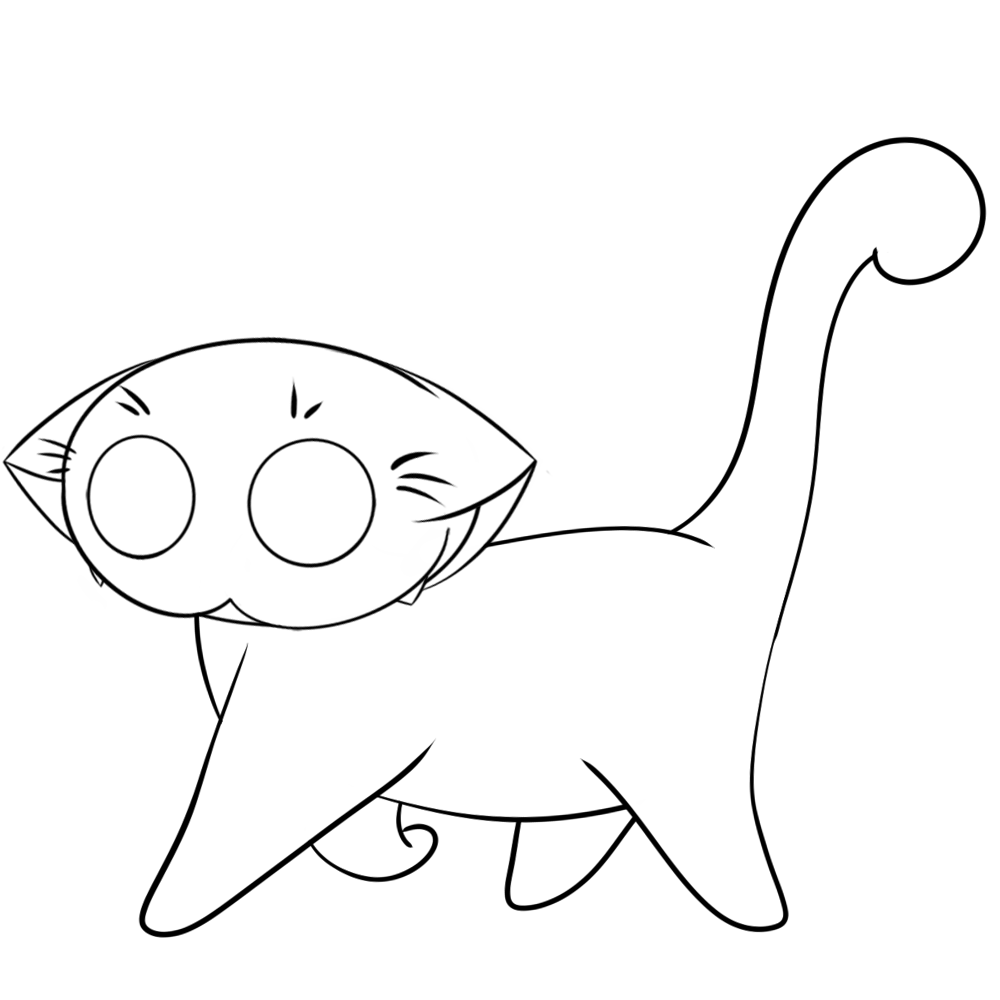
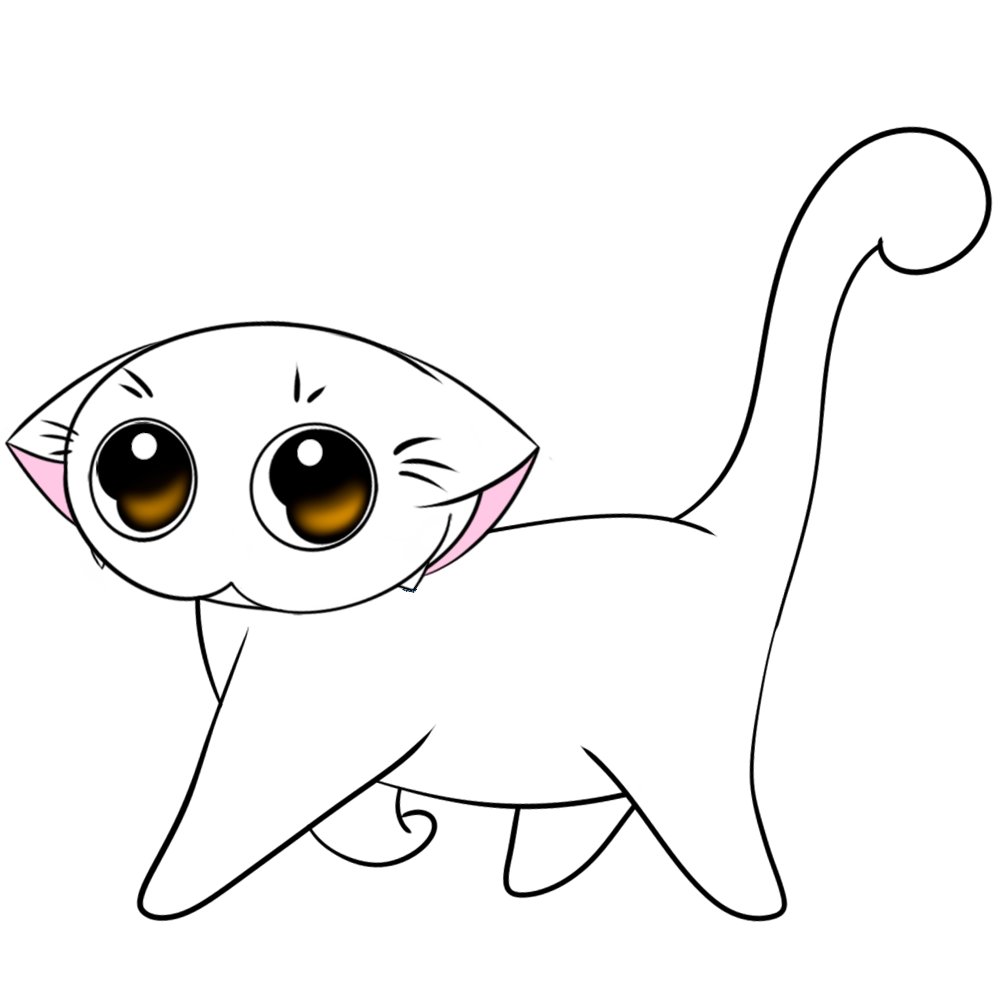
assets added and stuff works

diff --git a/src/components/molecules/Builder.js b/src/components/molecules/Builder.js
@@ -1,12 +1,14 @@
 import React, { Component, useState } from 'react';
 import { LoadingIndicator } from '../atoms/LoadingIndicator';
-import { Pane, Text, Button, Heading, SelectMenu, Label, Checkbox } from 'evergreen-ui'
-import blueFilling from '../../assets/images/fill.png'
-import orangeFilling from '../../assets/images/fill_2.png'
+import { Pane, Text, Button, Heading, SelectMenu, Label, Checkbox, Positioner } from 'evergreen-ui'
+import { CirclePicker } from 'react-color'
 import outline from '../../assets/images/siluette.png'
+import background from '../../assets/images/background.png'
 import { screenCapture } from '../helpers/ScreenCapture';
+import { spotImages } from '../../assets/images/spots'
 import { DropdownSelection } from '../atoms/DropdownSelection';
 import { cloneDeep } from "lodash"
+import { FillingColor } from '../atoms/FillingColor';
 
 
 const siluetteStyle = {
@@ -23,70 +25,87 @@ const imageStyle = {
 }
 const imageStyleSmall = {
   width: '80%',
+  height: '100%',
   position: 'absolute'
 }
 
 class Builder extends Component {
+
   constructor(props) {
     super(props);
     this.state = {
+      showColorPicker: false,
       size: undefined,
-      filling: undefined,
-      mainColor: undefined,
-      firstSpotColor: undefined,
-      secondSpotColor: undefined,
+      mainColor: '#4f668a',
+      firstSpotColor: 'sand',
+      secondSpotColor: 'darkBlue',
       firstSpots: undefined,
       secondSpots: undefined
     }
   }
 
   componentDidMount() {
-    const filling = blueFilling
     let spots = [
       {
         selected: false,
-        location: 'Rechtes Ohr',
-        src: 'rechtesOhr.svg',
-      },
-      {
-        selected: false,
-        location: 'Linkes Ohr',
-        src: 'linkesOhr.svg',
+        location: 'Rücken',
+        src: spotImages.back
       },
       {
         selected: false,
         location: 'Bauch',
-        src: 'bauch.svg',
+        src: spotImages.belly
+      },
+      {
+        selected: false,
+        location: 'Linkes Ohr',
+        src: spotImages.leftEar
+      },
+      {
+        selected: false,
+        location: 'Linke Vorderpfote',
+        src: spotImages.leftFrontFoot
+      },
+      {
+        selected: false,
+        location: 'Rechtes Ohr',
+        src: spotImages.rightEar
+      },
+      {
+        selected: false,
+        location: 'Rechte Vorderpfote',
+        src: spotImages.rightFrontFoot
+      },
+      {
+        selected: false,
+        location: 'Schulter',
+        src: spotImages.shoulder
       },
       {
         selected: false,
         location: 'Schwanz',
-        src: 'schwanz.svg',
-      },
+        src: spotImages.tail
+      }
     ]
-    this.setState({ filling, firstSpots: spots, secondSpots: cloneDeep(spots) })
+    this.setState({ firstSpots: spots, secondSpots: cloneDeep(spots) })
   }
 
   changeColor() {
-    if (this.state.filling === blueFilling) {
-      this.setState({ filling: orangeFilling })
-    } else {
-      this.setState({ filling: blueFilling })
-    }
+
   }
 
   onExportClick(dataUrl) {
     console.log(dataUrl)
   }
 
-  renderSpotSelection(spot, spotNumber){
+  renderSpotSelection(spot, spotNumber) {
     return (
-      <Checkbox 
+      <Checkbox
         label={spot.location}
-        checked = {spot.selected}
+        checked={spot.selected}
         onChange={e => {
           this.setState(state => {
-            if(spotNumber === 0){
+            if (spotNumber === 0) {
               state.firstSpots[state.firstSpots.indexOf(spot)].selected = !spot.selected
             } else {
               state.secondSpots[state.secondSpots.indexOf(spot)].selected = !spot.selected
@@ -97,12 +116,17 @@ class Builder extends Component {
       />
     )
   }
-    
-  
+
+  renderSpot(spot, color) {
+    return (
+      <img style={imageStyleSmall} src={spot.src[color]} />
+    )
+  }
 
   render() {
-    const filling = this.state.filling
-    if (!filling) {
+    console.log(this.props.theme.colors)
+    const colors = this.props.theme.colors
+    if (!this.state.firstSpots) {
       return (
         <LoadingIndicator />
       )
@@ -110,24 +134,36 @@ class Builder extends Component {
     {/* <Button onClick={() => screenCapture(this.imageBox, (dateUrl) => this.onExportClick(dateUrl))}>Export</Button> */ }
     return (
       <Pane className='container'>
-        <Pane style={{ position: 'relative' }} display='flex' direction='column' alignItems='center' justifyContent='center'>
-          <img src={this.state.filling} style={imageStyleSmall} />
-          <img src={outline} style={siluetteStyleSmall} />
+        <Pane background='orangeTint' style={{ position: 'sticky', top: 0, zIndex: 99 }}>
+          <Pane style={{ position: 'relative' }} display='flex' direction='column' alignItems='center' justifyContent='center'>
+            <FillingColor fill={this.state.mainColor} style={imageStyleSmall} />
+            {/* <img src={} style={imageStyleSmall} /> */}
+            <img src={background} style={imageStyleSmall} />
+            {this.state.firstSpots.filter(spot => spot.selected).map(spot => this.renderSpot(spot, this.state.firstSpotColor))}
+            {this.state.secondSpots.filter(spot => spot.selected).map(spot => this.renderSpot(spot, this.state.secondSpotColor))}
+            <img src={outline} style={siluetteStyleSmall} />
+          </Pane>
         </Pane>
         <Heading size={600}>
           Farben
         </Heading>
-        <DropdownSelection
-          label='Hauptfarbe'
-          options={
-            ['rot', 'rosa', 'hellblau', 'dunkelblau', 'hellgrün']
-              .map(label => ({ label, value: label }))
-          }
-          selected={this.state.mainColor}
-          useSelectedAsButtonText
-          fallbackButtonText='Auswahl ...'
-          onSelect={selected => this.setState({ mainColor: selected })}
-        />
+        <Pane display="flex" padding={8} background="tint2" borderRadius={3}>
+          <Pane flex={1} alignItems="center" display="flex">
+            <Heading>Hauptfarbe</Heading>
+          </Pane>
+          <Pane>
+            <Pane>
+              <Button>Farbauswahl</Button>
+            <CirclePicker onChangeComplete={c => this.setState({ mainColor: c.hex })} /> 
+              {/* <Positioner
+              isShown={this.state.showColorPicker}
+              > 
+              {/* </Positioner> */}
+
+            </Pane>
+          </Pane>
+        </Pane>
+
         <DropdownSelection
           label='Fleckenfarbe 1'
           options={
@@ -153,11 +189,11 @@ class Builder extends Component {
         <Heading size={600}>
           Flecken 1
         </Heading>
-          {this.state.firstSpots.map(spot => this.renderSpotSelection(spot, 0))}
-          <Heading size={600}>
+        {this.state.firstSpots.map(spot => this.renderSpotSelection(spot, 0))}
+        <Heading size={600}>
           Flecken 2
         </Heading>
-          {this.state.secondSpots.map(spot => this.renderSpotSelection(spot, 1))}
+        {this.state.secondSpots.map(spot => this.renderSpotSelection(spot, 1))}
       </Pane>
     )
   }

diff --git a/src/assets/images/spots/index.js b/src/assets/images/spots/index.js
@@ -1,0 +1,60 @@
+import darkBlueBack from './back/darkBlue.png'
+import sandBack from './back/sand.png'
+import darkBlueBelly from './belly/darkBlue.png'
+import darkBlueEye from './eye/darkBlue.png'
+import darkBlueLeftEar from './leftEar/darkBlue.png'
+import darkBlueLeftFrontFoot from './leftFrontFoot/darkBlue.png'
+import darkBlueRightEar from './rightEar/darkBlue.png'
+import darkBlueRightFrontFoot from './rightFrontFoot/darkBlue.png'
+import darkBlueShoulder from './shoulder/darkBlue.png'
+import darkBlueTail from './tail/darkBlue.png'
+import sandBelly from './belly/sand.png'
+import sandEye from './eye/sand.png'
+import sandLeftEar from './leftEar/sand.png'
+import sandLeftFrontFoot from './leftFrontFoot/sand.png'
+import sandRightEar from './rightEar/sand.png'
+import sandRightFrontFoot from './rightFrontFoot/sand.png'
+import sandShoulder from './shoulder/sand.png'
+import sandTail from './tail/sand.png'
+
+
+
+
+export const spotImages = {
+  back: {
+    darkBlue: darkBlueBack,
+    sand: sandBack
+  },
+  belly: {
+    darkBlue: darkBlueBelly,
+    sand: sandBelly
+  },
+  eye: {
+    darkBlue: darkBlueEye,
+    sand: sandEye
+  },
+  leftEar: {
+    darkBlue: darkBlueLeftEar,
+    sand: sandLeftEar
+  },
+  leftFrontFoot: {
+    darkBlue: darkBlueLeftFrontFoot,
+    sand: sandLeftFrontFoot
+  },
+  rightEar: {
+    darkBlue: darkBlueRightEar,
+    sand: sandRightEar
+  },
+  rightFrontFoot: {
+    darkBlue: darkBlueRightFrontFoot,
+    sand: sandRightFrontFoot
+  },
+  shoulder: {
+    darkBlue: darkBlueShoulder,
+    sand: sandShoulder
+  },
+  tail: {
+    darkBlue: darkBlueTail,
+    sand: sandTail
+  },
+}

diff --git a/src/components/pages/Home.js b/src/components/pages/Home.js
@@ -1,6 +1,7 @@
 import React, { Component } from 'react';
-import { Pane, Heading } from 'evergreen-ui'
+import { Pane, Heading, defaultTheme } from 'evergreen-ui'
 import Builder from '../molecules/Builder';
+import { ThemeProvider } from 'styled-components';
 
 
 const theme = {
@@ -30,12 +31,14 @@ class Home extends Component {
 
   render() {
     return (
+        <ThemeProvider theme={defaultTheme}>
       <Pane>
-        <Heading>
+        <Heading style={{position: 'sticky', top: 0}}>
           Heading
         </Heading>
-        <Builder />
+        <Builder theme={defaultTheme} />
       </Pane>
+      </ThemeProvider>
     );
   }
 }

diff --git a/src/components/atoms/FillingColor.js b/src/components/atoms/FillingColor.js
@@ -1,0 +1,7 @@
+import React from 'react';
+import { ReactComponent as Square } from '../../assets/images/Basic_square.svg'
+
+export const FillingColor = (props) => (
+  <Square style={{...props.style, fill: props.fill}} />
+  )
+
